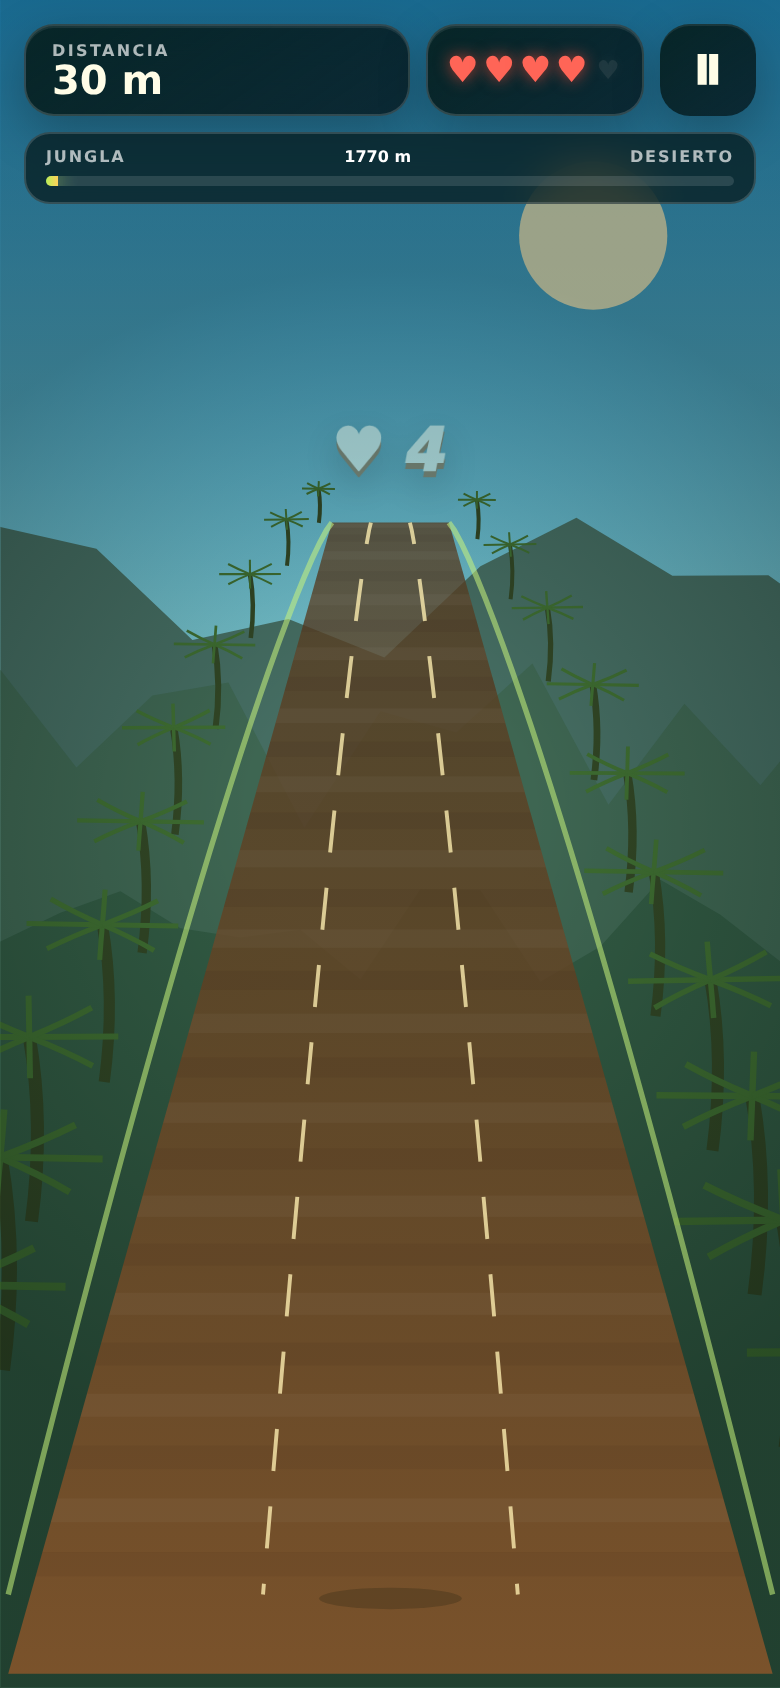
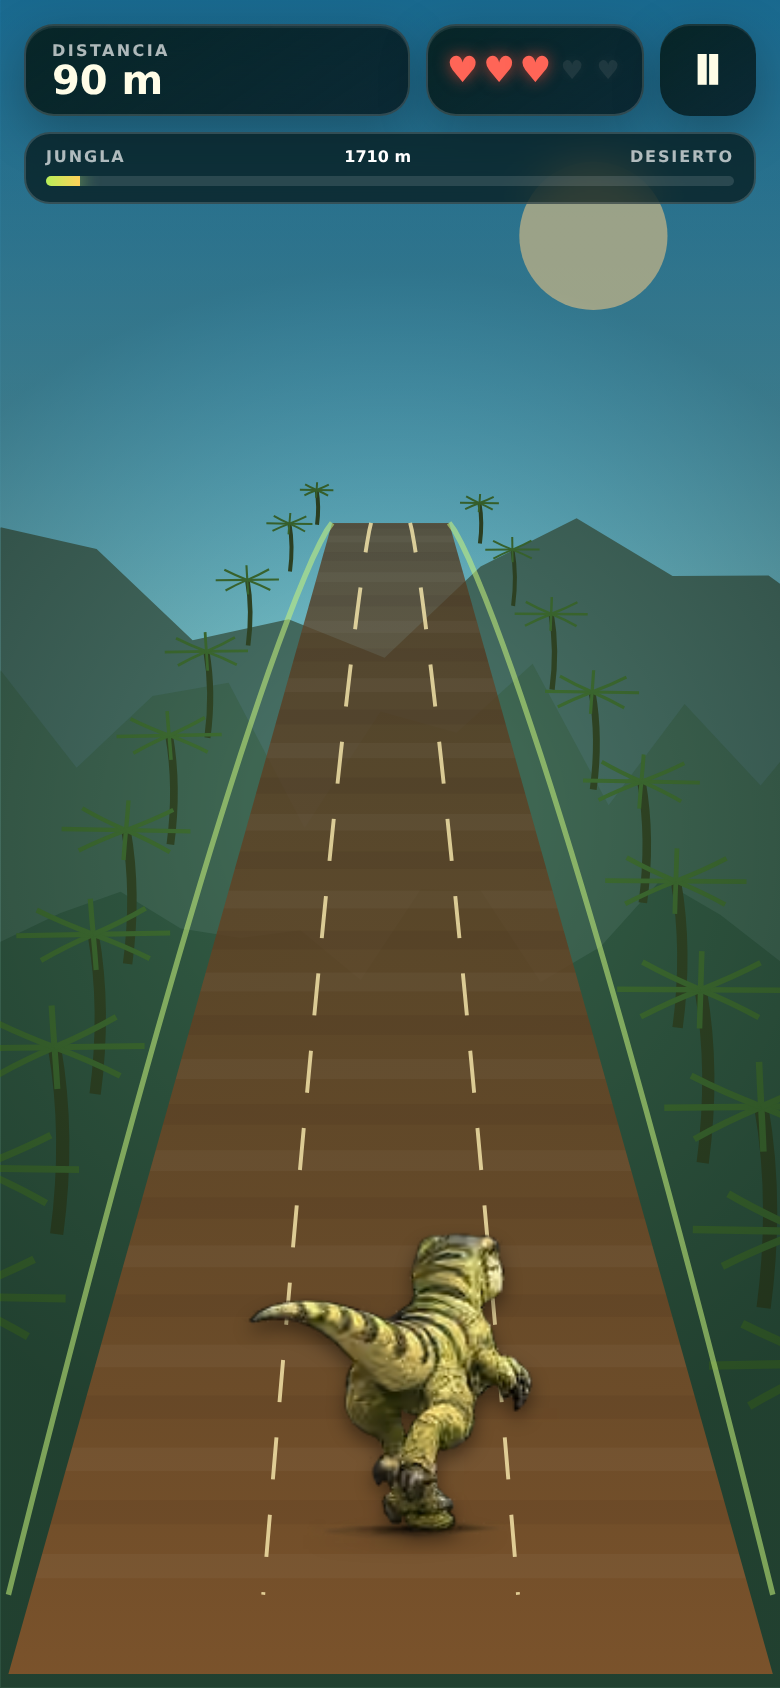
Fix pteranodon altitude, lane motion, and jump height
Keep the pteranodon visibly airborne near the player, move dashed lane markers toward the camera, and reduce the velociraptor jump to a believable obstacle-clearing height. Playwright mobile QA passed.

diff --git a/game.js b/game.js
@@ -6,7 +6,7 @@ const ctx=canvas.getContext('2d',{alpha:false,desynchronized:true});
 const $=id=>document.getElementById(id);
 const ui={loading:$('loading'),hud:$('hud'),score:$('score'),lives:$('lives'),goalLeft:$('goal-left'),goalFill:$('goal-fill'),tutorial:$('tutorial'),gesture:$('gesture'),damage:$('damage'),toast:$('toast'),home:$('home'),pause:$('pause'),over:$('over'),win:$('win'),finalDistance:$('final-distance'),bestDistance:$('best-distance'),winLives:$('win-lives')};
 
-const VERSION='20260802-phase2c';
+const VERSION='20260802-phase2d';
 const ATLAS_SCALE=.35;
 const CELL_W=448,CELL_H=336,PLAYER_CELL=213;
 const GOAL=1800,MAX_LIVES=5,MAX_Z=100,LANES=[-1,0,1];
@@ -21,7 +21,7 @@ const obstacleDefs={
   boulder:{action:'up',sprite:'boulder',width:.92},log:{action:'up',sprite:'log',width:.98},
   thorn:{action:'up',sprite:'thorn',width:.96},cactus:{action:'side',sprite:'cactus',width:.78},
   fossil:{action:'side',sprite:'fossil',width:.96},trex:{action:'side',sprite:'trex',width:1.18},
-  ptero:{action:'down',width:1.38}
+  ptero:{action:'down',width:1.24}
 };
 const tutorialSteps=[{action:'left',type:'trex'},{action:'right',type:'boulder'},{action:'up',type:'log'},{action:'down',type:'ptero'}];
 const images={};
@@ -51,7 +51,7 @@ function showToast(t){ui.toast.textContent=t;ui.toast.classList.remove('show');v
 function showTutorial(action){tutorialPaused=true;state='tutorial';ui.gesture.dataset.direction=action;ui.tutorial.classList.add('visible');ui.tutorial.setAttribute('aria-hidden','false');tone(330,.1,'sine',.025,80)}
 function hideTutorial(){tutorialPaused=false;ui.tutorial.classList.remove('visible');ui.tutorial.setAttribute('aria-hidden','true')}
 function move(dir){if(!['running','tutorial'].includes(state))return false;const old=player.lane;player.lane=Math.max(-1,Math.min(1,player.lane+dir));if(old!==player.lane){player.turnDir=dir;player.turnTimer=.28;tone(210,.045,'sine',.015,dir*35);return true}return false}
-function jump(){if(!['running','tutorial'].includes(state)||player.y>.03||player.slide>0)return false;player.vy=8.5;tone(280,.1,'square',.025,120);return true}
+function jump(){if(!['running','tutorial'].includes(state)||player.y>.03||player.slide>0)return false;player.vy=6;tone(280,.1,'square',.025,120);return true}
 function slide(){if(!['running','tutorial'].includes(state)||player.y>.1)return false;player.slide=.9;tone(105,.09,'sawtooth',.02,-25);return true}
 function apply(action){return action==='left'?move(-1):action==='right'?move(1):action==='up'?jump():slide()}
 function act(action){if(state==='tutorial'){const step=tutorialSteps[tutorialIndex];if(!step||step.action!==action){tone(100,.06,'square',.025,-20);return}hideTutorial();state='running';apply(action);if(tutorialObstacle)obstacles=obstacles.filter(o=>o!==tutorialObstacle);tutorialIndex++;tutorialObstacle=null;tutorialDelay=1.25;if(tutorialIndex>=tutorialSteps.length){spawnTimer=1.2;showToast('¡LISTO!')}return}if(state==='running')apply(action)}
@@ -62,7 +62,7 @@ function trackAt(p){const q=Math.pow(Math.max(0,Math.min(1,p)),1.18),half=w*(.07
 function perspective(z){const p=1-Math.max(0,Math.min(1,z/MAX_Z)),t=trackAt(p);return{p,y:h*.31+Math.pow(p,1.43)*h*.635,half:t.half,laneX:t.laneCenter,laneWidth:t.laneWidth}}
 function safeAgainst(o){const def=obstacleDefs[o.type];if(def.action==='side')return player.lane!==o.lane;if(player.lane!==o.lane)return true;if(def.action==='up')return player.y>.52;if(def.action==='down')return player.slide>.08;return false}
 function hit(o){if(player.invuln>0||o.hit)return;o.hit=true;lives--;player.invuln=1.5;player.hurt=.65;shake=13;speed=Math.max(16,speed-3);ui.damage.classList.remove('show');void ui.damage.offsetWidth;ui.damage.classList.add('show');tone(85,.22,'sawtooth',.055,-40);updateHud();showToast(lives>0?`♥ ${lives}`:'SIN VIDAS');if(lives<=0)gameOver()}
-function update(dt){if(!['running','tutorial'].includes(state))return;time+=dt;player.x+=(player.lane-player.x)*Math.min(1,dt*10);if(player.y>0||player.vy>0){player.vy-=20*dt;player.y=Math.max(0,player.y+player.vy*dt);if(player.y===0&&player.vy<0)player.vy=0}player.slide=Math.max(0,player.slide-dt);player.invuln=Math.max(0,player.invuln-dt);player.hurt=Math.max(0,player.hurt-dt);player.turnTimer=Math.max(0,player.turnTimer-dt);shake*=Math.pow(.02,dt);if(state==='tutorial')return;distance+=speed*dt;speed=Math.min(31,19+distance/180);updateHud();if(distance>=GOAL){win();return}if(tutorialIndex<tutorialSteps.length){tutorialDelay-=dt;if(!tutorialObstacle&&tutorialDelay<=0)spawnTutorial()}else{spawnTimer-=dt;if(spawnTimer<=0){spawnPattern();spawnTimer=Math.max(.95,2.2-distance/1800*.7)}}for(const o of obstacles){o.z-=speed*dt*1.65;o.phase+=dt*4;if(o.tutorial&&o===tutorialObstacle&&o.z<34&&!tutorialPaused)showTutorial(tutorialSteps[tutorialIndex].action);if(!o.hit&&o.z<5&&o.z>-4&&!safeAgainst(o))hit(o)}obstacles=obstacles.filter(o=>o.z>-12)}
+function update(dt){if(!['running','tutorial'].includes(state))return;time+=dt;player.x+=(player.lane-player.x)*Math.min(1,dt*10);if(player.y>0||player.vy>0){player.vy-=22*dt;player.y=Math.max(0,player.y+player.vy*dt);if(player.y===0&&player.vy<0)player.vy=0}player.slide=Math.max(0,player.slide-dt);player.invuln=Math.max(0,player.invuln-dt);player.hurt=Math.max(0,player.hurt-dt);player.turnTimer=Math.max(0,player.turnTimer-dt);shake*=Math.pow(.02,dt);if(state==='tutorial')return;distance+=speed*dt;speed=Math.min(31,19+distance/180);updateHud();if(distance>=GOAL){win();return}if(tutorialIndex<tutorialSteps.length){tutorialDelay-=dt;if(!tutorialObstacle&&tutorialDelay<=0)spawnTutorial()}else{spawnTimer-=dt;if(spawnTimer<=0){spawnPattern();spawnTimer=Math.max(.95,2.2-distance/1800*.7)}}for(const o of obstacles){o.z-=speed*dt*1.65;o.phase+=dt*4;if(o.tutorial&&o===tutorialObstacle&&o.z<34&&!tutorialPaused)showTutorial(tutorialSteps[tutorialIndex].action);if(!o.hit&&o.z<5&&o.z>-4&&!safeAgainst(o))hit(o)}obstacles=obstacles.filter(o=>o.z>-12)}
 
 function seeded(i){const x=Math.sin(i*127.13+19.71)*43758.5453;return x-Math.floor(x)}
 function mountainPath(base,amp,step,offset){ctx.beginPath();ctx.moveTo(0,h);for(let x=0;x<=w+step;x+=step){const n=seeded(Math.floor(x/step)+offset),n2=seeded(Math.floor(x/step)+offset+41);ctx.lineTo(x,base-amp*(.25+n*.55+n2*.2))}ctx.lineTo(w,h);ctx.closePath()}
@@ -74,13 +74,13 @@ function drawProceduralBackground(){const blend=Math.max(0,Math.min(1,(distance-
   const vignette=ctx.createRadialGradient(w/2,h*.48,w*.18,w/2,h*.52,w*.78);vignette.addColorStop(0,'rgba(0,0,0,0)');vignette.addColorStop(1,'rgba(0,10,7,.32)');ctx.fillStyle=vignette;ctx.fillRect(0,0,w,h);visualDebug.background={procedural:true,blend:+blend.toFixed(2),backingWidth:canvas.width,backingHeight:canvas.height,dpr}
 }
 function trackPoint(p,nx){const m=trackAt(p),y=h*.31+Math.pow(p,1.43)*h*.635;return{x:w/2+m.half*nx,y}}
-function drawTrack(){const center=w/2,horizon=h*.31,bottom=h*.992,topHalf=trackAt(0).half,bottomHalf=trackAt(1).half;ctx.save();ctx.beginPath();ctx.moveTo(center-topHalf,horizon);ctx.lineTo(center+topHalf,horizon);ctx.lineTo(center+bottomHalf,bottom);ctx.lineTo(center-bottomHalf,bottom);ctx.closePath();const blend=Math.max(0,Math.min(1,(distance-900)/700)),g=ctx.createLinearGradient(0,horizon,0,bottom);g.addColorStop(0,blend>.5?'rgba(180,119,55,.76)':'rgba(83,58,32,.76)');g.addColorStop(1,blend>.5?'rgba(236,180,86,.97)':'rgba(125,83,43,.97)');ctx.fillStyle=g;ctx.fill();ctx.clip();for(let i=0;i<28;i++){const p=(i/28+distance*.016)%1,p2=Math.min(1,p+.016),y1=trackPoint(p,0).y,y2=trackPoint(p2,0).y;ctx.fillStyle=i%2?'rgba(255,255,255,.035)':'rgba(35,20,10,.06)';ctx.fillRect(0,y1,w,Math.max(1,y2-y1))}ctx.restore();for(const boundary of[-1/3,1/3]){ctx.save();ctx.strokeStyle='rgba(255,239,178,.78)';ctx.lineWidth=Math.max(1.7,w*.005);ctx.setLineDash([Math.max(8,h*.025),Math.max(8,h*.021)]);ctx.lineDashOffset=(distance*1.7)%40;ctx.beginPath();for(let i=0;i<=32;i++){const p=i/32,pt=trackPoint(p,boundary);i?ctx.lineTo(pt.x,pt.y):ctx.moveTo(pt.x,pt.y)}ctx.stroke();ctx.restore()}for(const edge of[-1,1]){ctx.strokeStyle='rgba(201,244,123,.55)';ctx.lineWidth=Math.max(2,w*.007);ctx.beginPath();for(let i=0;i<=32;i++){const p=i/32,pt=trackPoint(p,edge);i?ctx.lineTo(pt.x,pt.y):ctx.moveTo(pt.x,pt.y)}ctx.stroke()}visualDebug.track={horizonY:horizon,bottomY:bottom,topWidth:topHalf*2,bottomWidth:bottomHalf*2,laneWidth:bottomHalf*2/3,laneCenters:[center-bottomHalf*2/3,center,center+bottomHalf*2/3]}}
+function drawTrack(){const center=w/2,horizon=h*.31,bottom=h*.992,topHalf=trackAt(0).half,bottomHalf=trackAt(1).half;ctx.save();ctx.beginPath();ctx.moveTo(center-topHalf,horizon);ctx.lineTo(center+topHalf,horizon);ctx.lineTo(center+bottomHalf,bottom);ctx.lineTo(center-bottomHalf,bottom);ctx.closePath();const blend=Math.max(0,Math.min(1,(distance-900)/700)),g=ctx.createLinearGradient(0,horizon,0,bottom);g.addColorStop(0,blend>.5?'rgba(180,119,55,.76)':'rgba(83,58,32,.76)');g.addColorStop(1,blend>.5?'rgba(236,180,86,.97)':'rgba(125,83,43,.97)');ctx.fillStyle=g;ctx.fill();ctx.clip();for(let i=0;i<28;i++){const p=(i/28+distance*.016)%1,p2=Math.min(1,p+.016),y1=trackPoint(p,0).y,y2=trackPoint(p2,0).y;ctx.fillStyle=i%2?'rgba(255,255,255,.035)':'rgba(35,20,10,.06)';ctx.fillRect(0,y1,w,Math.max(1,y2-y1))}ctx.restore();const dashOffset=-(distance*1.7%40);for(const boundary of[-1/3,1/3]){ctx.save();ctx.strokeStyle='rgba(255,239,178,.78)';ctx.lineWidth=Math.max(1.7,w*.005);ctx.setLineDash([Math.max(8,h*.025),Math.max(8,h*.021)]);ctx.lineDashOffset=dashOffset;ctx.beginPath();for(let i=0;i<=32;i++){const p=i/32,pt=trackPoint(p,boundary);i?ctx.lineTo(pt.x,pt.y):ctx.moveTo(pt.x,pt.y)}ctx.stroke();ctx.restore()}for(const edge of[-1,1]){ctx.strokeStyle='rgba(201,244,123,.55)';ctx.lineWidth=Math.max(2,w*.007);ctx.beginPath();for(let i=0;i<=32;i++){const p=i/32,pt=trackPoint(p,edge);i?ctx.lineTo(pt.x,pt.y):ctx.moveTo(pt.x,pt.y)}ctx.stroke()}visualDebug.track={horizonY:horizon,bottomY:bottom,topWidth:topHalf*2,bottomWidth:bottomHalf*2,laneWidth:bottomHalf*2/3,laneCenters:[center-bottomHalf*2/3,center,center+bottomHalf*2/3],dashOffset:+dashOffset.toFixed(2),dashDirection:'toward-player'}}
 function drawLegacy(name,x,y,targetWidth,opts={}){const r=SPRITES[name],im=images.atlas,scale=targetWidth/CELL_W,dw=targetWidth,dh=CELL_H*scale;ctx.save();ctx.translate(x,y);if(opts.alpha!==undefined)ctx.globalAlpha=opts.alpha;if(opts.shadow)ctx.filter='drop-shadow(0 8px 8px rgba(0,0,0,.4))';const anchorY=opts.anchorY??.95;ctx.drawImage(im,r[0]*ATLAS_SCALE,r[1]*ATLAS_SCALE,r[2]*ATLAS_SCALE,r[3]*ATLAS_SCALE,-dw/2,-dh*anchorY,dw,dh);ctx.restore();ctx.filter='none';ctx.globalAlpha=1;return{x:x-dw/2,y:y-dh*anchorY,width:dw,height:dh}}
 function drawFlightAsset(name,x,y,targetWidth,opts={}){const im=images[name],dw=targetWidth,dh=targetWidth*(im.height/im.width);ctx.save();ctx.translate(x,y);if(opts.alpha!==undefined)ctx.globalAlpha=opts.alpha;if(opts.shadow)ctx.filter='drop-shadow(0 8px 8px rgba(0,0,0,.36))';const anchorY=opts.anchorY??.52;ctx.drawImage(im,-dw/2,-dh*anchorY,dw,dh);ctx.restore();ctx.filter='none';ctx.globalAlpha=1;return{x:x-dw/2,y:y-dh*anchorY,width:dw,height:dh}}
 function drawShadow(x,y,width,alpha=.2){ctx.save();ctx.globalAlpha=alpha;ctx.fillStyle='#08120c';ctx.beginPath();ctx.ellipse(x,y,width/2,Math.max(3,width*.075),0,0,Math.PI*2);ctx.fill();ctx.restore()}
-function drawWorld(){visualDebug.obstacles=[];visualDebug.ptero=null;for(const o of[...obstacles].sort((a,b)=>b.z-a.z)){const p=perspective(o.z),x=w/2+o.lane*p.laneX,def=obstacleDefs[o.type];if(o.type==='ptero'){const frame=PTERO_FRAMES[Math.floor((time*7+o.phase)%PTERO_FRAMES.length)],target=p.laneWidth*def.width,lift=48+p.laneWidth*1.02,bob=Math.sin(time*8+o.phase)*Math.max(2,p.laneWidth*.06),cy=p.y-lift+bob;drawShadow(x,p.y+2,p.laneWidth*.56,.2);const rect=frame==='ptero_glide'?drawLegacy(frame,x,cy,target,{anchorY:.52,shadow:true,alpha:o.hit?.45:1}):drawFlightAsset(frame,x,cy,target,{anchorY:.52,shadow:true,alpha:o.hit?.45:1});visualDebug.ptero={frame,groundY:+p.y.toFixed(1),centerY:+cy.toFixed(1),altitude:+(p.y-cy).toFixed(1),rect,laneWidth:+p.laneWidth.toFixed(1),lane:o.lane};visualDebug.obstacles.push({type:o.type,lane:o.lane,rect,laneWidth:+p.laneWidth.toFixed(1),ratio:+(rect.width/p.laneWidth).toFixed(2)});continue}const target=p.laneWidth*def.width;drawShadow(x,p.y+1,p.laneWidth*.58,o.type==='trex'?.27:.18);const name=o.type==='trex'&&Math.floor((time*3+o.phase)%3)===2?'trex_roar':def.sprite,rect=drawLegacy(name,x,p.y,target,{anchorY:.95,shadow:true,alpha:o.hit?.45:1});visualDebug.obstacles.push({type:o.type,lane:o.lane,rect,laneWidth:+p.laneWidth.toFixed(1),ratio:+(rect.width/p.laneWidth).toFixed(2)})}}
+function drawWorld(){visualDebug.obstacles=[];visualDebug.ptero=null;for(const o of[...obstacles].sort((a,b)=>b.z-a.z)){const p=perspective(o.z),x=w/2+o.lane*p.laneX,def=obstacleDefs[o.type];if(o.type==='ptero'){const frame=PTERO_FRAMES[Math.floor((time*7+o.phase)%PTERO_FRAMES.length)],target=p.laneWidth*def.width,ratio=frame==='ptero_glide'?CELL_H/CELL_W:images[frame].height/images[frame].width,spriteHeight=target*ratio,clearance=95+75*p.p,bob=Math.sin(time*8+o.phase)*Math.max(2,p.laneWidth*.045),cy=p.y-clearance-spriteHeight*.5+bob;drawShadow(x,p.y+2,p.laneWidth*.38,.1);const rect=frame==='ptero_glide'?drawLegacy(frame,x,cy,target,{anchorY:.5,shadow:true,alpha:o.hit?.45:1}):drawFlightAsset(frame,x,cy,target,{anchorY:.5,shadow:true,alpha:o.hit?.45:1}),bottom=rect.y+rect.height;visualDebug.ptero={frame,groundY:+p.y.toFixed(1),centerY:+cy.toFixed(1),altitude:+(p.y-cy).toFixed(1),clearance:+(p.y-bottom).toFixed(1),rect,laneWidth:+p.laneWidth.toFixed(1),lane:o.lane};visualDebug.obstacles.push({type:o.type,lane:o.lane,rect,laneWidth:+p.laneWidth.toFixed(1),ratio:+(rect.width/p.laneWidth).toFixed(2)});continue}const target=p.laneWidth*def.width;drawShadow(x,p.y+1,p.laneWidth*.58,o.type==='trex'?.27:.18);const name=o.type==='trex'&&Math.floor((time*3+o.phase)%3)===2?'trex_roar':def.sprite,rect=drawLegacy(name,x,p.y,target,{anchorY:.95,shadow:true,alpha:o.hit?.45:1});visualDebug.obstacles.push({type:o.type,lane:o.lane,rect,laneWidth:+p.laneWidth.toFixed(1),ratio:+(rect.width/p.laneWidth).toFixed(2)})}}
 function playerImage(){if(player.hurt>0)return'hurt';if(player.slide>0)return'slide';if(player.y>.05)return'jump';if(player.turnTimer>0)return player.turnDir<0?'turn_left':'turn_right';return`run${Math.floor(time*11)%4+1}`}
-function drawPlayer(){if(player.invuln>0&&Math.floor(player.invuln*12)%2===0)return;const vs=Math.min(w/390,h/844),near=trackAt(1),baseX=w/2+player.x*near.laneCenter,baseY=h*.925-player.y*h*.22;let sc=vs*.99;if(player.y>.05)sc*=1.03;if(player.slide>0)sc*=.98;const rf=Math.floor(time*11)%4,bob=player.y>0||player.slide>0||player.hurt>0||player.turnTimer>0?0:[0,-3,1,-2][rf]*vs,[col,row]=PLAYER_CELLS[playerImage()],dw=PLAYER_CELL*sc,dh=PLAYER_CELL*sc;ctx.save();ctx.translate(baseX,baseY+bob);ctx.filter='drop-shadow(0 9px 9px rgba(0,0,0,.42))';ctx.drawImage(images.player,col*PLAYER_CELL,row*PLAYER_CELL,PLAYER_CELL,PLAYER_CELL,-dw/2,-dh*.97,dw,dh);ctx.restore();ctx.filter='none'}
+function drawPlayer(){if(player.invuln>0&&Math.floor(player.invuln*12)%2===0)return;const vs=Math.min(w/390,h/844),near=trackAt(1),baseX=w/2+player.x*near.laneCenter,baseY=h*.925-player.y*h*.18;let sc=vs*.99;if(player.y>.05)sc*=1.03;if(player.slide>0)sc*=.98;const rf=Math.floor(time*11)%4,bob=player.y>0||player.slide>0||player.hurt>0||player.turnTimer>0?0:[0,-3,1,-2][rf]*vs,[col,row]=PLAYER_CELLS[playerImage()],dw=PLAYER_CELL*sc,dh=PLAYER_CELL*sc;ctx.save();ctx.translate(baseX,baseY+bob);ctx.filter='drop-shadow(0 9px 9px rgba(0,0,0,.42))';ctx.drawImage(images.player,col*PLAYER_CELL,row*PLAYER_CELL,PLAYER_CELL,PLAYER_CELL,-dw/2,-dh*.97,dw,dh);ctx.restore();ctx.filter='none'}
 function draw(){resize();ctx.save();if(shake)ctx.translate((Math.random()-.5)*shake,(Math.random()-.5)*shake*.55);drawProceduralBackground();drawTrack();drawWorld();drawPlayer();ctx.restore()}
 function frame(now){const dt=Math.min(.033,(now-last)/1000||0);last=now;if(state==='home')time+=dt*.35;update(dt);draw();requestAnimationFrame(frame)}
 

diff --git a/qa/phase2-test.js b/qa/phase2-test.js
@@ -40,6 +40,14 @@ const fs = require('fs');
   const centers = visual.track.laneCenters;
   assert(Math.abs((centers[1] - centers[0]) - (centers[2] - centers[1])) < 1, `unequal lane spacing: ${centers}`);
 
+  const firstDashOffset = visual.track.dashOffset;
+  await page.waitForTimeout(120);
+  visual = await page.evaluate(() => window.__RAPTOR_GAME__.visual);
+  const secondDashOffset = visual.track.dashOffset;
+  assert.equal(visual.track.dashDirection, 'toward-player', 'lane markers are not configured to move toward the player');
+  assert(firstDashOffset < 0 && secondDashOffset < 0, `lane dash offsets must be negative: ${firstDashOffset}, ${secondDashOffset}`);
+  assert(secondDashOffset < firstDashOffset, `lane markers moved toward the horizon: ${firstDashOffset} -> ${secondDashOffset}`);
+
   await page.evaluate(() => {
     window.__RAPTOR_GAME__.clear();
     window.__RAPTOR_GAME__.forceObstacle('boulder', -1, 10);
@@ -59,17 +67,35 @@ const fs = require('fs');
 
   await page.evaluate(() => {
     window.__RAPTOR_GAME__.clear();
-    window.__RAPTOR_GAME__.forceObstacle('ptero', 0, 25);
+    window.__RAPTOR_GAME__.jump();
+  });
+  let maxJumpY = 0;
+  for (let i = 0; i < 50; i++) {
+    await page.waitForTimeout(18);
+    const y = await page.evaluate(() => window.__RAPTOR_GAME__.stats.y);
+    maxJumpY = Math.max(maxJumpY, y);
+  }
+  assert(maxJumpY >= 0.55, `jump is too low to clear obstacles: ${maxJumpY}`);
+  assert(maxJumpY <= 0.9, `jump still looks unrealistically high: ${maxJumpY}`);
+  const jumpPixels = maxJumpY * 844 * 0.18;
+  assert(jumpPixels <= 140, `rendered jump displacement is too high: ${jumpPixels}`);
+  await page.waitForFunction(() => window.__RAPTOR_GAME__.stats.y === 0, null, { timeout: 2000 });
+
+  await page.evaluate(() => {
+    window.__RAPTOR_GAME__.clear();
+    window.__RAPTOR_GAME__.forceObstacle('ptero', 0, 18);
   });
   const pteroFrames = new Set();
   let ptero;
+  let minClearance = Infinity;
   for (let i = 0; i < 8; i++) {
-    await page.waitForTimeout(75);
+    await page.waitForTimeout(60);
     ptero = await page.evaluate(() => window.__RAPTOR_GAME__.visual.ptero);
-    assert(ptero, 'pteranodon was not rendered while inside the playfield');
+    assert(ptero, 'pteranodon was not rendered while approaching the player');
     pteroFrames.add(ptero.frame);
-    assert(ptero.altitude >= 130, `pteranodon too low: ${ptero.altitude}`);
-    assert(ptero.centerY < ptero.groundY - 120, `pteranodon appears at ground level: ${JSON.stringify(ptero)}`);
+    minClearance = Math.min(minClearance, ptero.clearance);
+    assert(ptero.clearance >= 145, `pteranodon appears too close to the ground: ${JSON.stringify(ptero)}`);
+    assert(ptero.rect.y + ptero.rect.height <= ptero.groundY - 145, `pteranodon sprite reaches the ground plane: ${JSON.stringify(ptero)}`);
   }
   assert(pteroFrames.size >= 3, `pteranodon animation showed only: ${[...pteroFrames]}`);
   assert(![...pteroFrames].some(frame => frame === 'ptero_up' || frame === 'ptero_mid'), `old vertical pteranodon frames remain: ${[...pteroFrames]}`);
@@ -82,11 +108,18 @@ const fs = require('fs');
     viewport: '390x844@2x',
     assets,
     background: finalVisual.background,
-    track: finalVisual.track,
+    track: {
+      ...finalVisual.track,
+      testedOffsets: [firstDashOffset, secondDashOffset]
+    },
     obstacleRatios,
+    jump: {
+      maxY: +maxJumpY.toFixed(2),
+      displacementPx: +jumpPixels.toFixed(1)
+    },
     pteranodon: {
       frames: [...pteroFrames],
-      altitude: ptero.altitude,
+      minimumClearance: minClearance,
       groundY: ptero.groundY,
       centerY: ptero.centerY
     },

diff --git a/index.html b/index.html
@@ -29,6 +29,6 @@
   <section id="over" class="overlay compact"><div class="panel"><small>SIN VIDAS</small><h2>¡Buen intento!</h2><div class="results"><div><span>Distancia</span><b id="final-distance">0 m</b></div><div><span>Récord</span><b id="best-distance">0 m</b></div></div><button id="restart-btn" class="primary">CORRER DE NUEVO</button><button id="home-btn" class="ghost">INICIO</button></div></section>
   <section id="win" class="overlay compact"><div class="panel win"><small>DESTINO ALCANZADO</small><h2>¡Llegaste al desierto!</h2><div class="results"><div><span>Distancia</span><b>1800 m</b></div><div><span>Vidas</span><b id="win-lives">5</b></div></div><button id="win-restart" class="primary">OTRA EXPEDICIÓN</button><button id="win-home" class="ghost">INICIO</button></div></section>
 </main>
-<script src="game.js?v=20260802-phase2c"></script>
+<script src="game.js?v=20260802-phase2d"></script>
 </body>
 </html>
